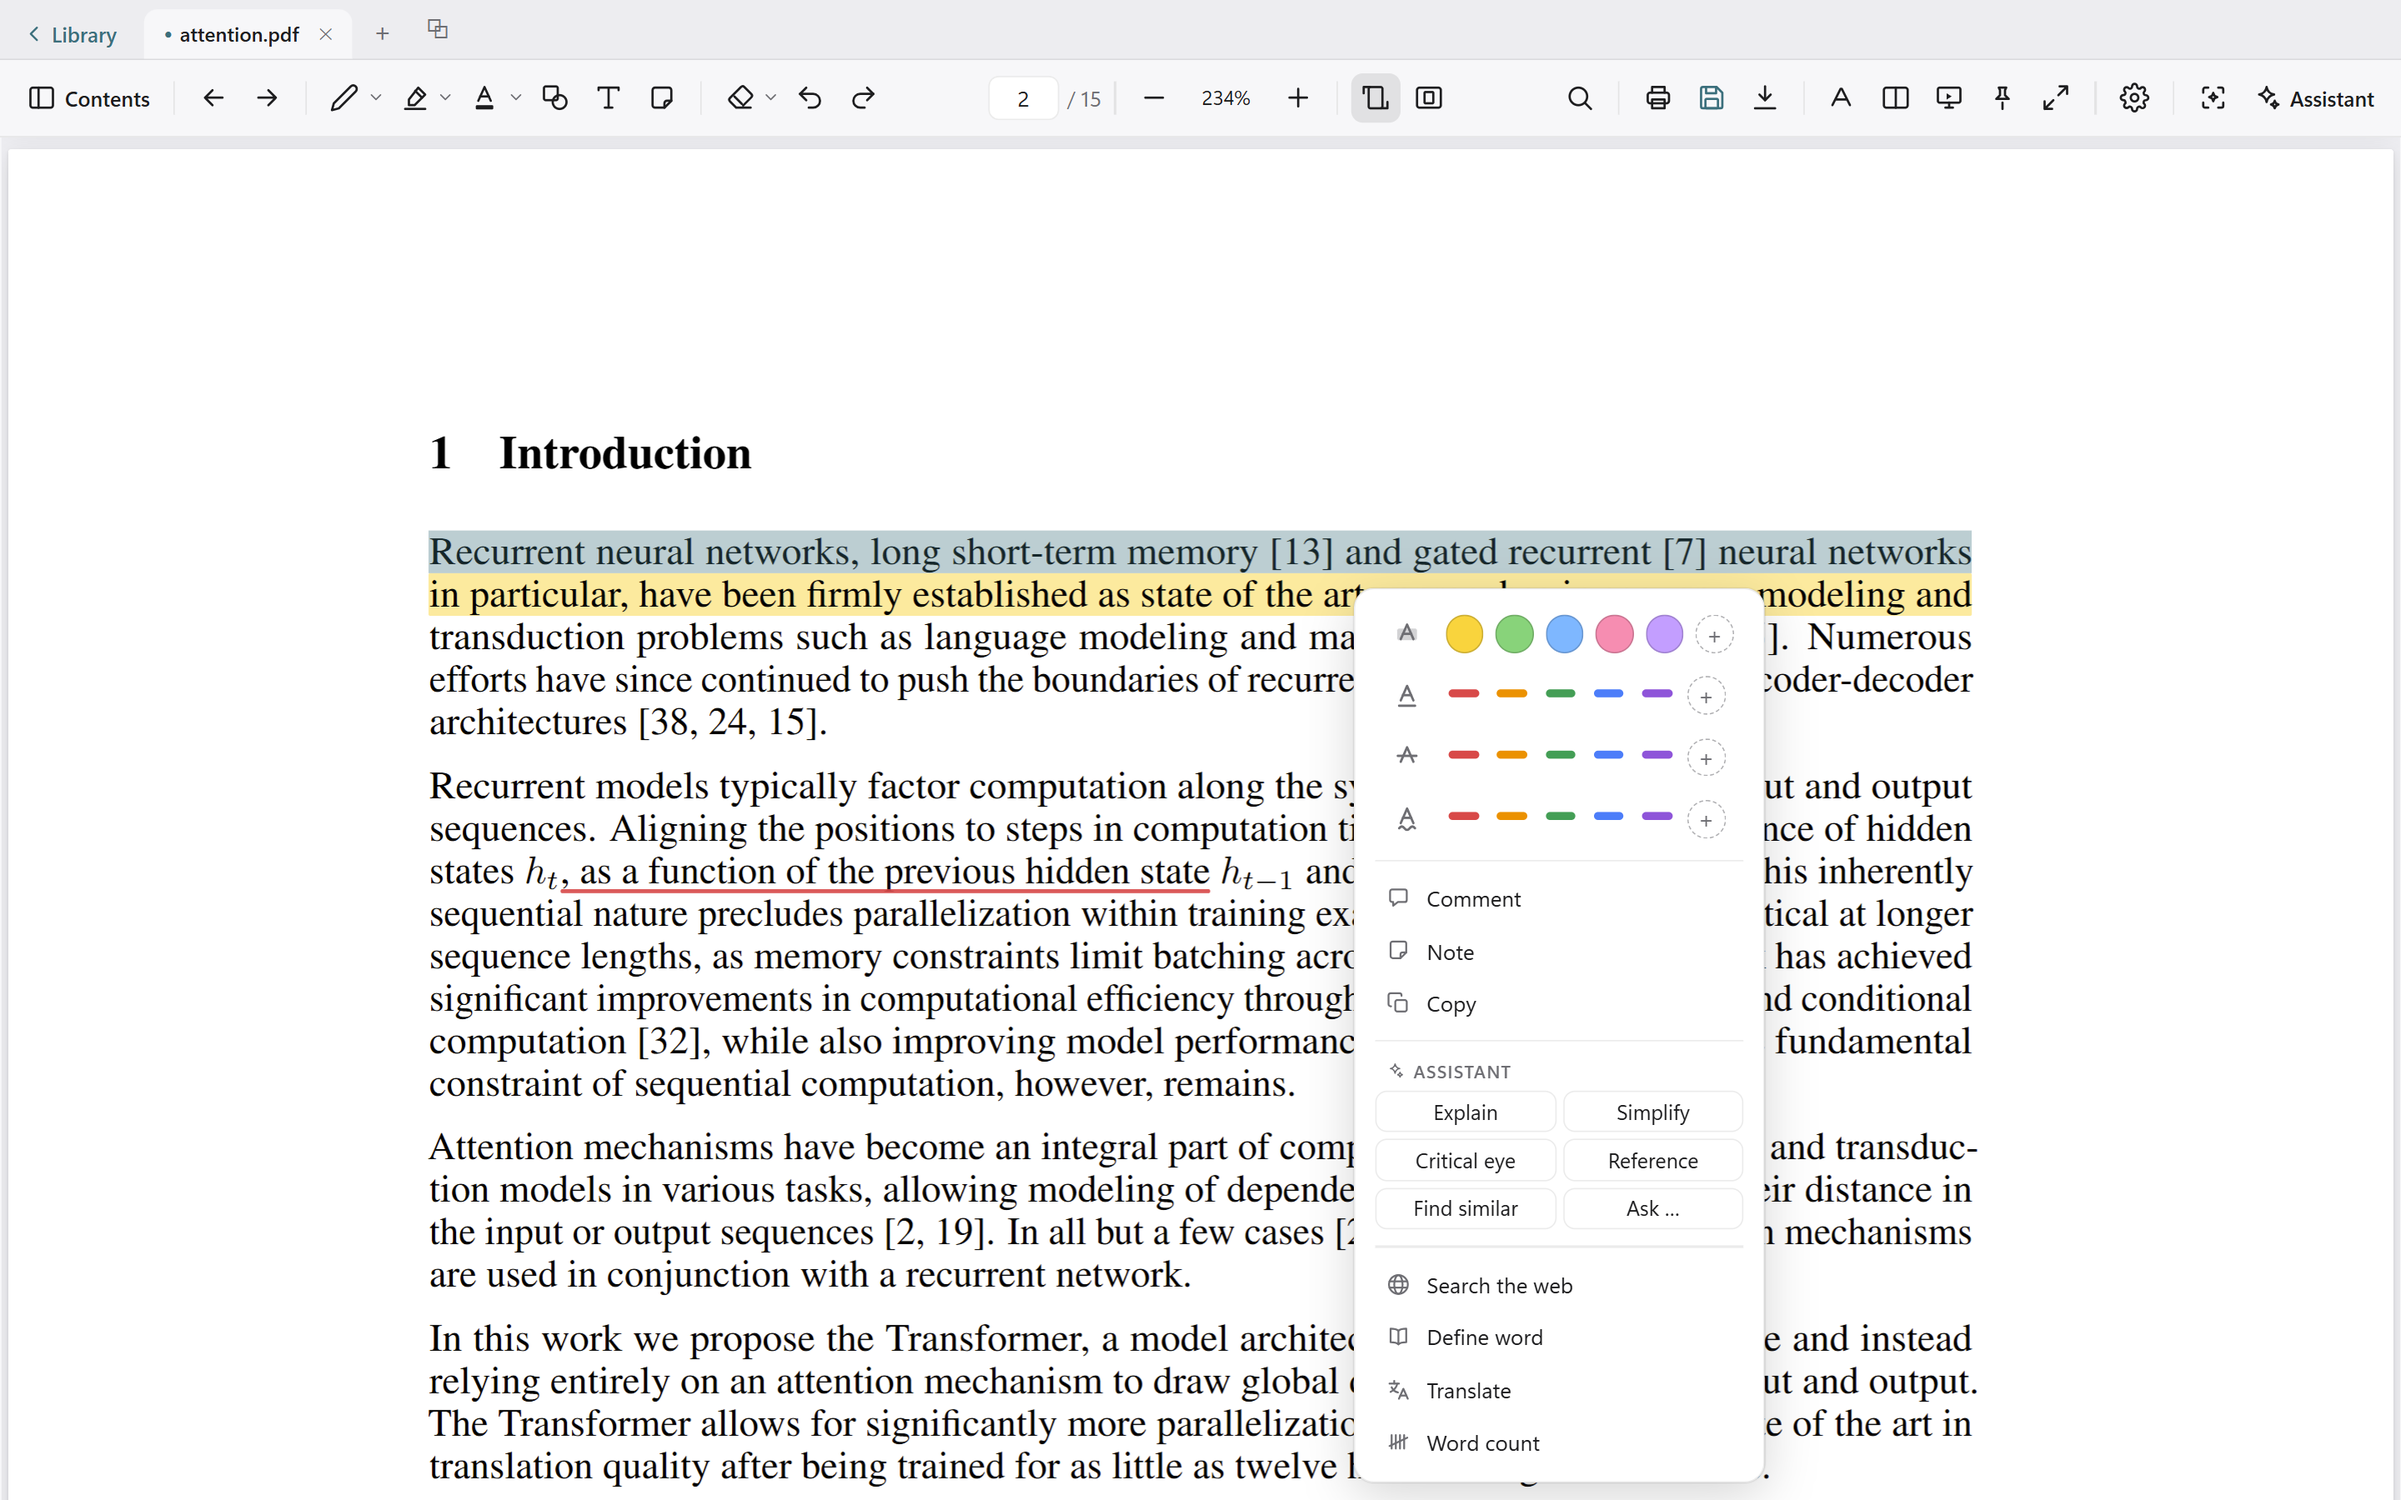
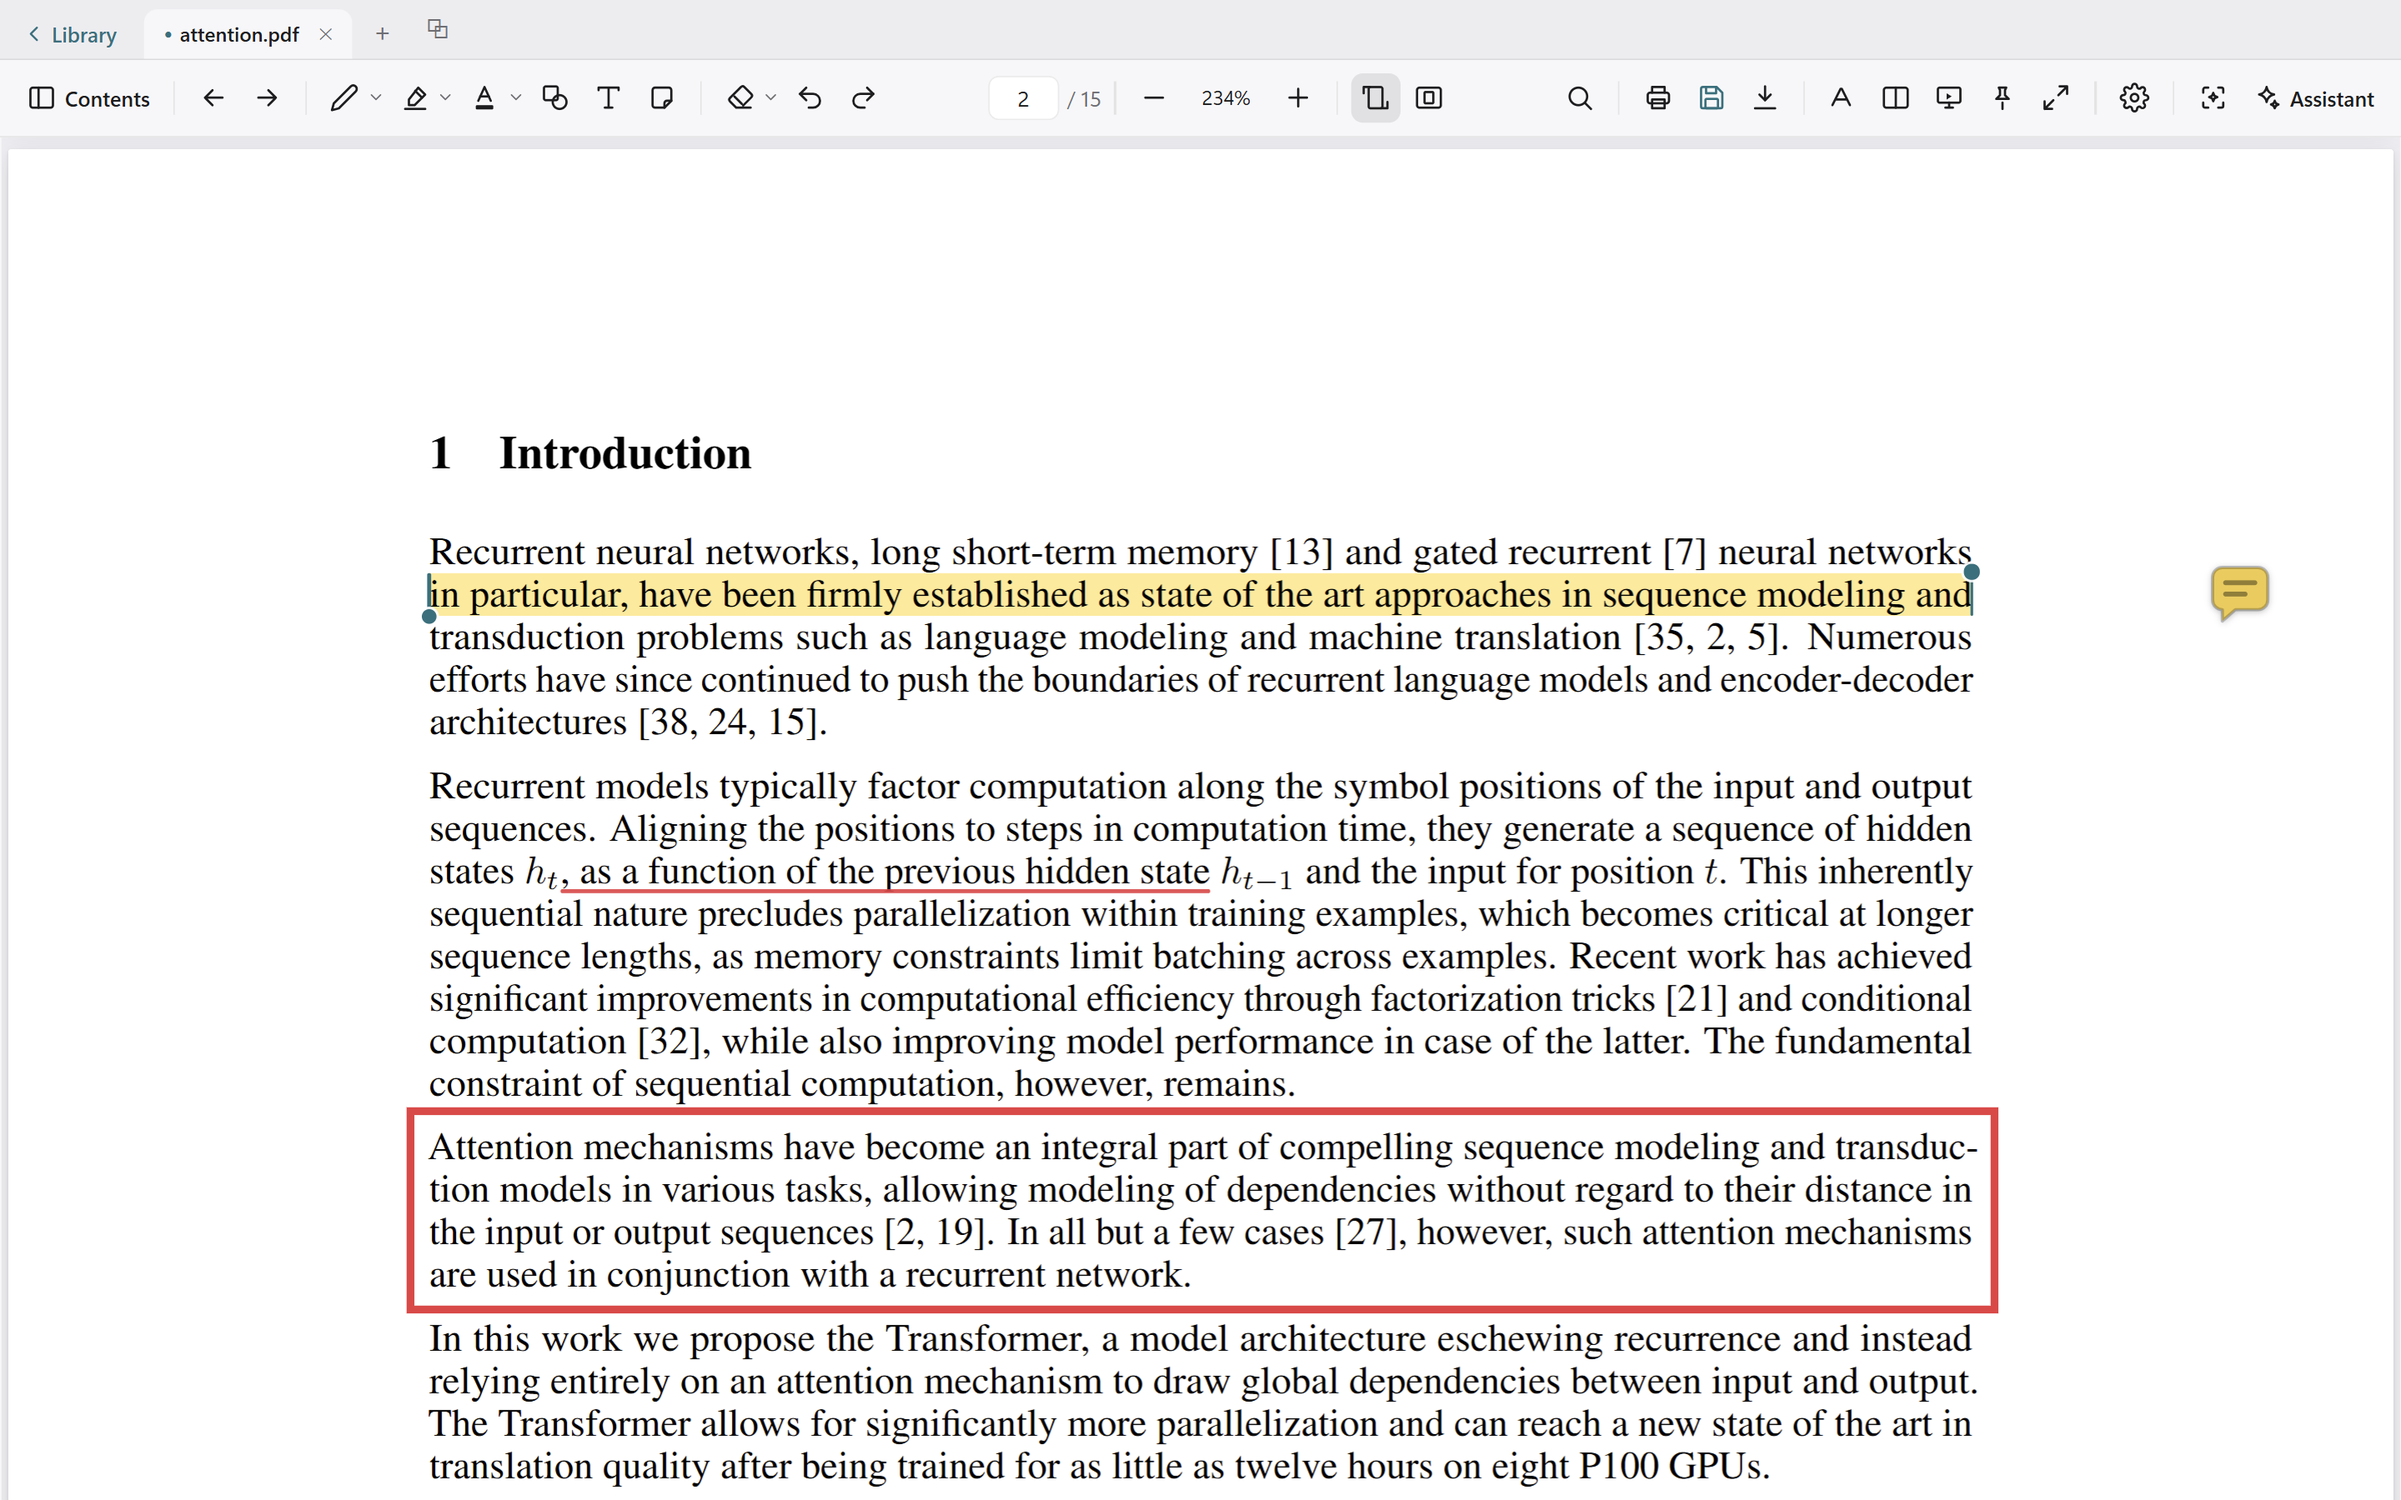
docs: show what a marked-up page looks like, and say less about it
Emil's two notes on the last pass: "nothing you mark is final" is grandiose, the
quality-of-life features do not need that much README, and what would actually
help is a screenshot of how annotations are displayed.

So the feature list loses about half the words it gained — bookmarks and the tab
reorder fold into the lines they belong to, the search additions become one
clause, and the correcting-a-mark bullet says what it does without the
manifesto. And the annotations screenshot now shows the marks instead of a menu
covering them: a highlight, an underline, a box around a paragraph and a sticky
note on one page, with the highlight selected so its end knobs are visible —
both states of a mark, four kinds of mark.

Three new shoot helpers got it there, and two of them earned their assertions
the hard way. Marks were being placed on "the first mounted .pdf-page", which is
the page ABOVE the one in frame, so a rectangle and a note were photographed
onto page 1 while the shot showed page 2 — and the old assertions passed,
because they asked the whole document whether a mark existed rather than asking
the page in the picture. Both now check the mark is IN FRAME, and the rectangle
refuses to be drawn where the window would clip it. It also hugs a paragraph
(found by walking the text layer until the line gap says the paragraph ended)
rather than slicing through body text at arbitrary fractions.

Changed region(s): [[0.1562, 0.4978, 0.8438, 0.9956], [0.1562, 0.3422, 0.8438, 0.4667], [0.9062, 0.3733, 0.9688, 0.4044]]

diff --git a/README.md b/README.md
@@ -124,16 +124,12 @@ the current desktop-vs-extension parity.
 - **Presentation mode** (P): one page at a time, full screen
 - Unpin the toolbar (V) and it hides. Hover the top edge to bring it back, the left edge
   for the table of contents, the right edge for the assistant
-- Table of contents, thumbnails, and back/forward navigation (Alt+← / Alt+→) after
-  following internal links
-- **Bookmarks**: press B to mark the page you are on, give it a name, and come back to it
-  from the sidebar. They live beside your reading position, not inside the PDF, so nothing
-  is written to the file
+- Table of contents, thumbnails, bookmarks (B marks the page you are on), and back/forward
+  navigation (Alt+← / Alt+→) after following internal links
 - Remembers your reading position and recent files; a **library** home screen lists what
   you have been reading
 - Tabs for several open documents, plus multiple windows. **Drag a tab out into its own
-  window** to put two documents side by side, or **across the bar to reorder** them.
-  Right-click a tab to close the others, or everything to its right
+  window** to put two documents side by side, or across the bar to reorder
 
 **Split view**
 
@@ -170,7 +166,7 @@ one, the table it rests on somewhere else. Press **S** and you get both.
 
 **Annotation**
 
-![Selecting text brings up the markup menu — colours, comment, note, and the assistant's actions on the selection](docs/screenshots/annotations.png)
+![A highlight, an underline, a box around a paragraph and a sticky note on the same page — the highlight selected, with the knobs that drag its ends](docs/screenshots/annotations.png)
 
 - **Select text and the menu comes to you**: highlight, underline, strikeout and squiggly
   in one row each, a comment or a note, copy, dictionary, translate — and the assistant's
@@ -187,10 +183,9 @@ one, the table it rests on somewhere else. Press **S** and you get both.
   annotation instead
 - Click any annotation to select it, drag to move it, and add a comment to it. Full
   undo/redo (Ctrl+Z / Ctrl+Shift+Z)
-- **Nothing you mark is final.** A highlight that came out one line too short is dragged
-  longer by its end — the mark follows the words, snapping to whole ones, across line
-  breaks. Shapes, text boxes and drawings resize from any corner (a drawing's strokes scale
-  with the box), and a line or arrow has a grip on each end. No erase-and-draw-again
+- Selected marks can be adjusted rather than redrawn: drag either end of a highlight to
+  cover more or less text (it snaps to whole words), or a corner of a shape, text box or
+  drawing to resize it
 - Comment and note bubbles can be dragged **and resized** — pull the corner for a long
   note, double-click the grip to restore the default size
 - **Real PDF annotations** with appearance streams, so they open correctly in Acrobat,
@@ -205,11 +200,9 @@ one, the table it rests on somewhere else. Press **S** and you get both.
 
 **Search & the web**
 - In-document search (Ctrl+F): match case, whole word (Norwegian æøå-safe), a results
-  list with excerpts, jump-to-hit, F3 / Shift+F3. **Every match on the page is marked
-  while you search** — quietly, with the one you are on kept loud — so you can see how a
-  term is distributed before stepping through it
-- The last ten searches are offered when the field is empty, and can be forgotten in one
-  click
+  list with excerpts, jump-to-hit, F3 / Shift+F3. Every match on the page is marked
+  quietly while you search, with the one you are on kept loud, and the last ten searches
+  are offered when the field is empty
 - **AI search**: describe a topic in your own words and get the passages that discuss it,
   ranked and clickable (uses your own API key, like the assistant)
 - Selection menu: copy, search the web, dictionary, translate, and the AI actions below
@@ -235,11 +228,10 @@ the answer rather than take it on trust.
   in the chat as an attachment you can add a question to — nothing is sent until you do.
   The answer describes what is actually in the crop, and cites the pages it draws on. You
   can paste or attach images the same way
-- **Scanned documents are read, not refused.** A PDF that is pictures of words has no text
-  to search, and the assistant says so plainly instead of answering about nothing. Then it
-  offers to read the pages: pick a range, and they are rendered and attached as images with
-  an editable question. The chip names exactly which pages go along, the model is told it
-  can see only those, and it says so when an answer would need pages you did not attach
+- **Scanned documents**: a PDF that is pictures of words has no text to search, and the
+  assistant says so instead of answering about nothing. Pick a page range and those pages
+  are attached as images for it to read — the chip names which ones, and it is told it can
+  see only those
 - Providers: Anthropic (Claude, with native citations), OpenAI and Azure OpenAI — one
   model list across all three, with per-model reasoning-effort control. Your key goes to
   the provider you picked and nowhere else — there is no server of ours in between — and
